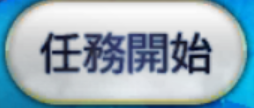
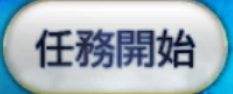
優化螢幕擷取比例

diff --git a/main.py b/main.py
@@ -3,6 +3,7 @@ import ctypes
 import tkinter.filedialog as fd
 import tkinter.messagebox as msg
 import threading
+from utils.logger import *
 from utils.monitor import set_config as set_monitor, testshot as ts
 from utils.window_controller import ask_config
 from utils.executor import start_playing, summon, gift, set_config as set_executor
@@ -65,8 +66,13 @@ def load_and_set():
     with open('positions_config.json', 'r', encoding='utf-8') as config_file:
         config_data = json.load(config_file)
     width, height = ask_config()
-    rateX = width / 1873
-    rateY = height / 1040
+    bias = 0
+    if width == 1920:
+        bias = 92
+    rateX = (width-42-bias) / 1788
+    rateY = (height-34) / 1008
+    info(rateX)
+    info(rateY)
     for k, v in config_data.items():
         config_data[k] = [int(v[0]*rateX), int(v[1]*rateY)]
     set_executor(config_data, rateX, rateY)
